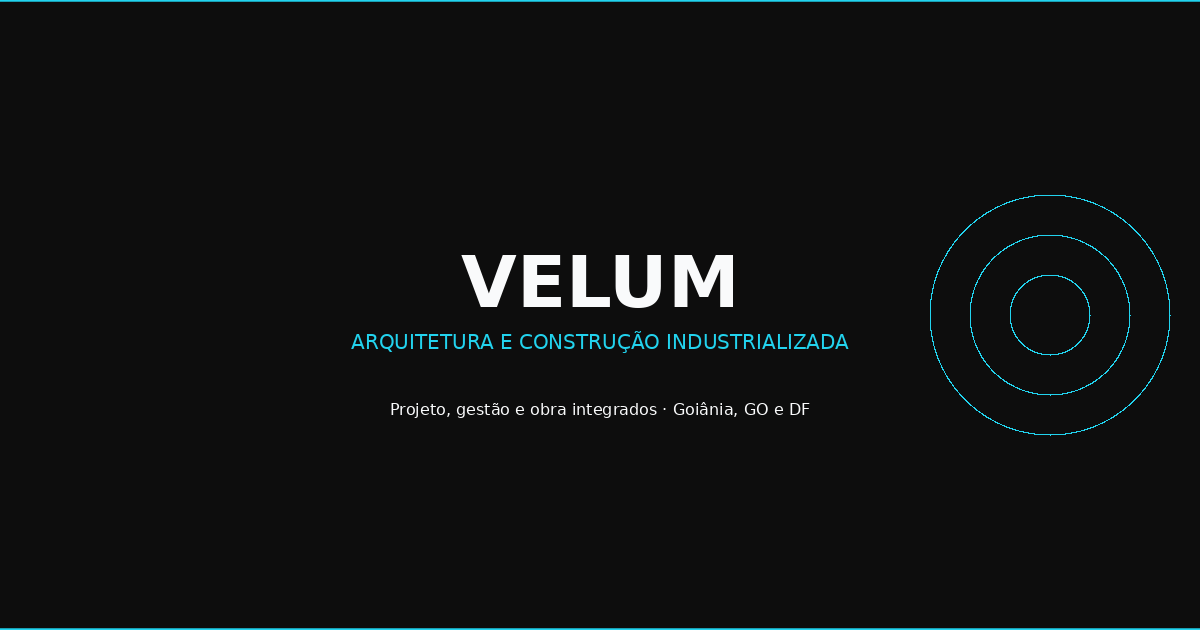
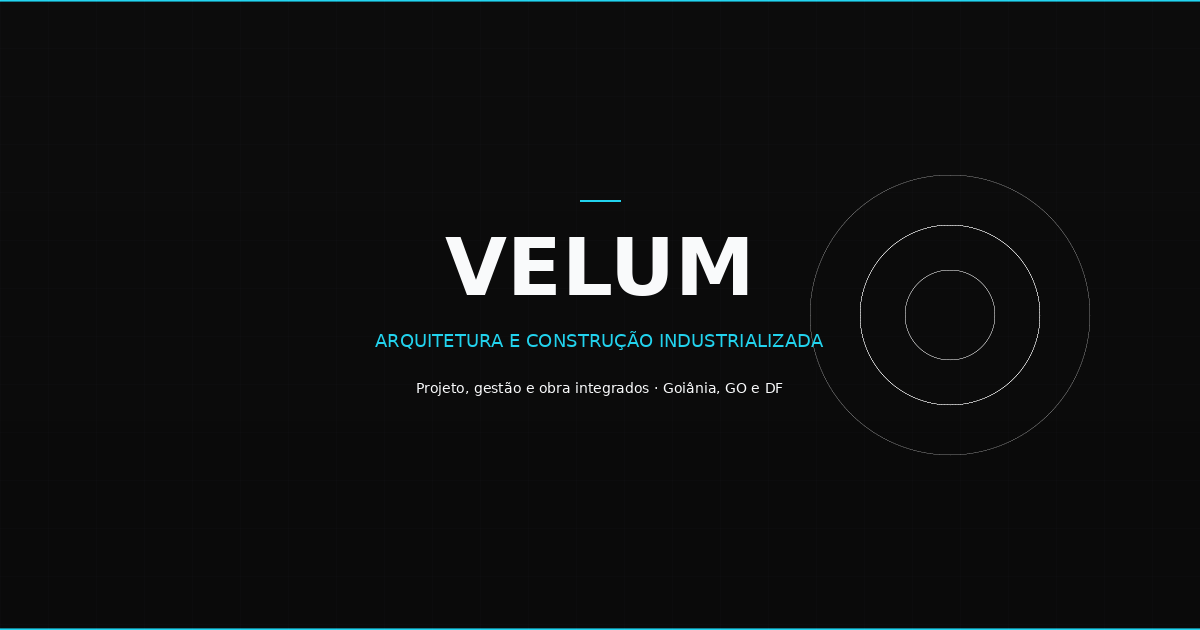
fix: contraste WCAG AA e OG image melhorada
Contraste WCAG AA (mínimo 4.5:1):
- HeroSection: inactive numbers 0.15→0.45, SELECIONE 0.4→0.6,
  SCROLL 0.25→0.5, mobile labels 0.3→0.5, trust bar 0.35→0.5
- Breadcrumbs: separator 0.2→0.4
- Contato: placeholder gray-500→gray-400 para melhor legibilidade

OG image (1200x630): regenerada com grid sutil, círculos decorativos,
linhas cyan, logo VELUM + tagline centralizado

https://claude.ai/code/session_01XV3X5F5e2ivCpq8aMwBR3L

diff --git a/src/components/home/HeroSection.tsx b/src/components/home/HeroSection.tsx
@@ -181,7 +181,7 @@ export default function HeroSection() {
             style={{
               fontSize: 7,
               letterSpacing: 1.5,
-              color: "rgba(34,211,238,0.4)",
+              color: "rgba(34,211,238,0.6)",
               writingMode: "vertical-rl",
               transform: "rotate(180deg)",
             }}
@@ -220,7 +220,7 @@ export default function HeroSection() {
                 >
                   <span
                     className="font-syncopate font-bold mb-1"
-                    style={{ fontSize: 10, color: isActive ? opt.accent : "rgba(249,250,251,0.15)" }}
+                    style={{ fontSize: 10, color: isActive ? opt.accent : "rgba(249,250,251,0.45)" }}
                   >
                     {opt.number}
                   </span>
@@ -255,7 +255,7 @@ export default function HeroSection() {
             <span
               className="font-dm mt-2"
               style={{
-                fontSize: 7, letterSpacing: 1.5, color: "rgba(249,250,251,0.25)",
+                fontSize: 7, letterSpacing: 1.5, color: "rgba(249,250,251,0.5)",
                 writingMode: "vertical-rl", transform: "rotate(180deg)",
               }}
             >
@@ -435,7 +435,7 @@ export default function HeroSection() {
           </p>
 
           {/* Accordion label */}
-          <p className="font-dm uppercase mb-3" style={{ fontSize: 8, letterSpacing: 1.5, color: "rgba(249,250,251,0.3)" }}>
+          <p className="font-dm uppercase mb-3" style={{ fontSize: 8, letterSpacing: 1.5, color: "rgba(249,250,251,0.5)" }}>
             O QUE VOCÊ BUSCA?
           </p>
 
@@ -460,7 +460,7 @@ export default function HeroSection() {
                   >
                     <span
                       className="font-syncopate font-bold shrink-0"
-                      style={{ fontSize: 10, color: isOpen ? opt.accent : "rgba(249,250,251,0.25)" }}
+                      style={{ fontSize: 10, color: isOpen ? opt.accent : "rgba(249,250,251,0.45)" }}
                     >
                       {opt.number}
                     </span>
@@ -502,7 +502,7 @@ export default function HeroSection() {
               (item, i) => (
                 <div key={i} className="flex items-center gap-1.5">
                   <div style={{ width: 3, height: 3, borderRadius: "50%", background: "#22D3EE" }} />
-                  <span className="font-dm" style={{ fontSize: 8, color: "rgba(249,250,251,0.35)" }}>{item}</span>
+                  <span className="font-dm" style={{ fontSize: 8, color: "rgba(249,250,251,0.5)" }}>{item}</span>
                 </div>
               )
             )}

diff --git a/src/pages/Contato.tsx b/src/pages/Contato.tsx
@@ -30,7 +30,7 @@ export default function Contato() {
   };
 
   const inputBase =
-    "w-full rounded-md border px-3 py-3 text-sm text-white placeholder:text-gray-500 font-dm focus:outline-none focus:border-[#22D3EE] transition-colors";
+    "w-full rounded-md border px-3 py-3 text-sm text-white placeholder:text-gray-400 font-dm focus:outline-none focus:border-[#22D3EE] transition-colors";
   const inputStyle = {
     background: "rgba(255,255,255,0.04)",
     borderColor: "rgba(34,211,238,0.15)",

diff --git a/src/components/Breadcrumbs.tsx b/src/components/Breadcrumbs.tsx
@@ -46,7 +46,7 @@ export default function Breadcrumbs({ current, path }: BreadcrumbsProps) {
               Home
             </Link>
           </li>
-          <li style={{ color: "rgba(249,250,251,0.2)" }}>/</li>
+          <li style={{ color: "rgba(249,250,251,0.4)" }}>/</li>
           <li style={{ color: "rgba(249,250,251,0.55)" }}>{current}</li>
         </ol>
       </nav>
